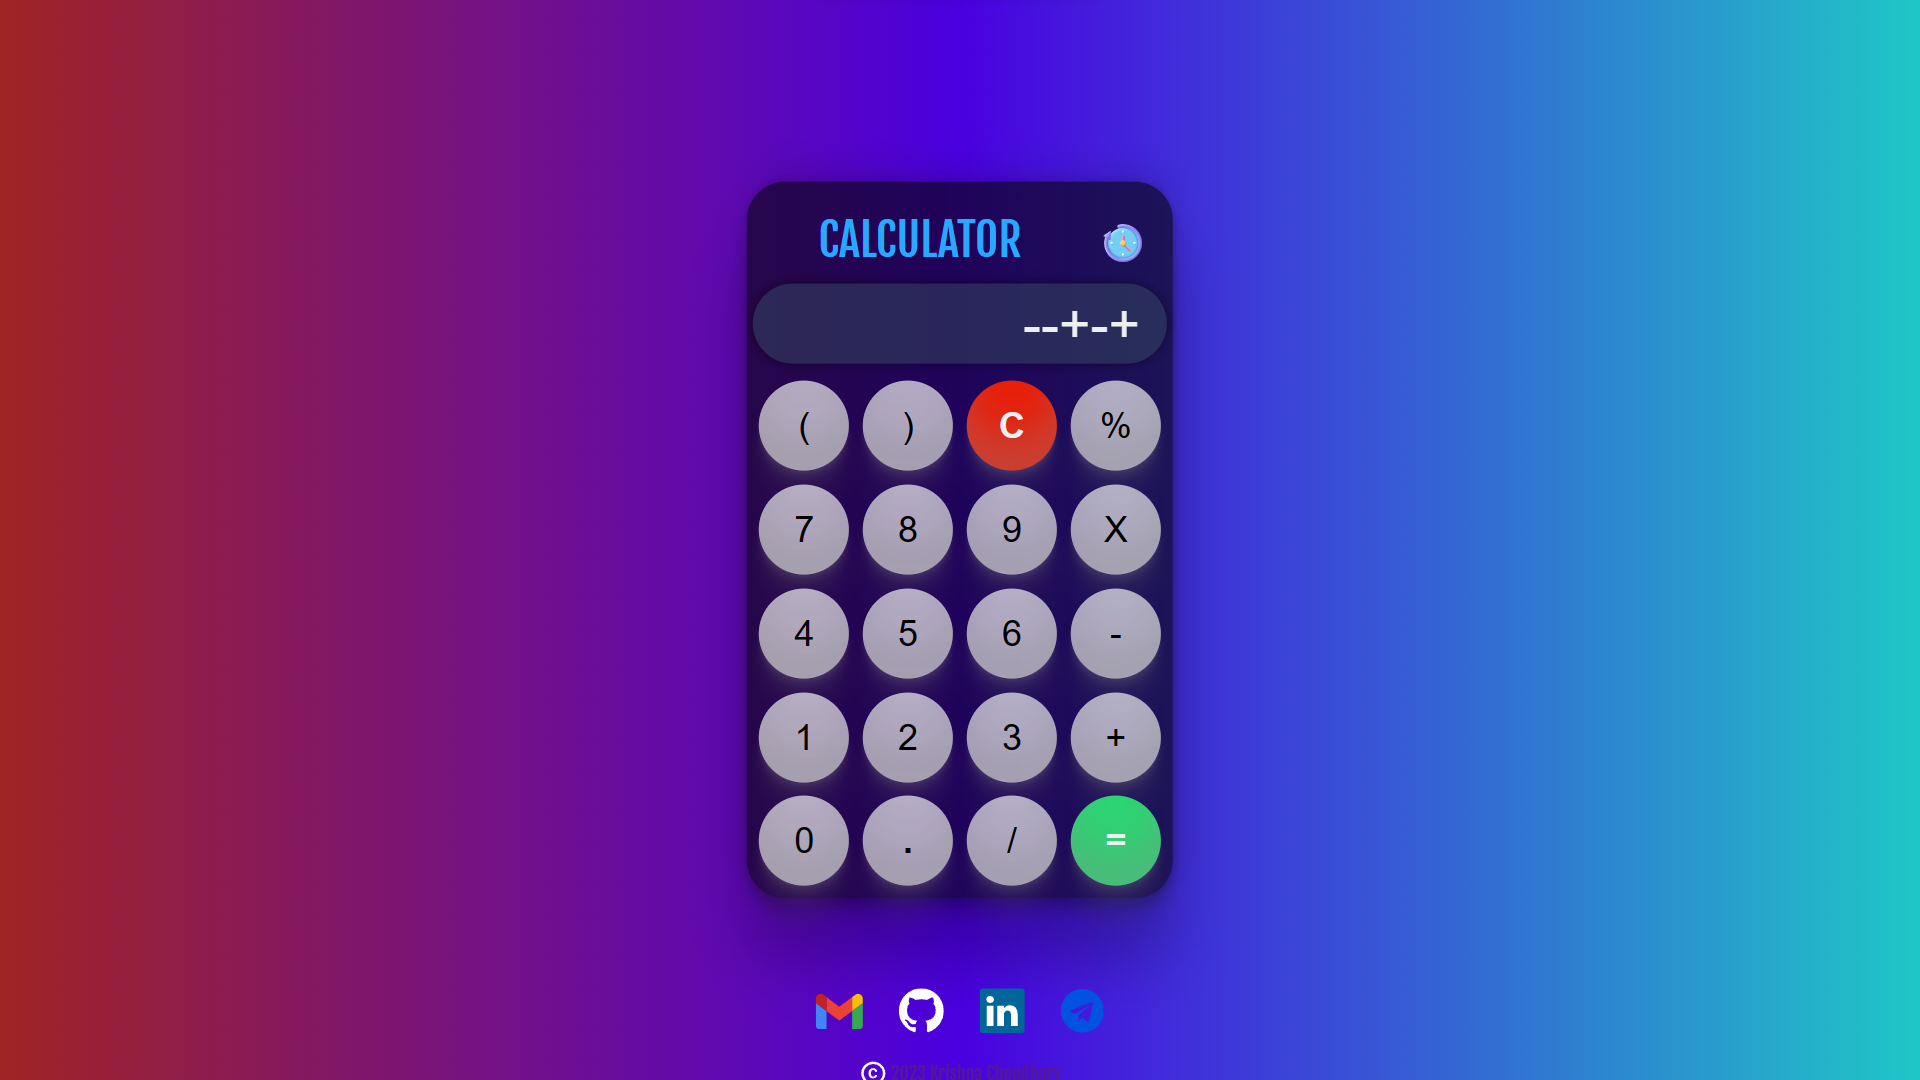
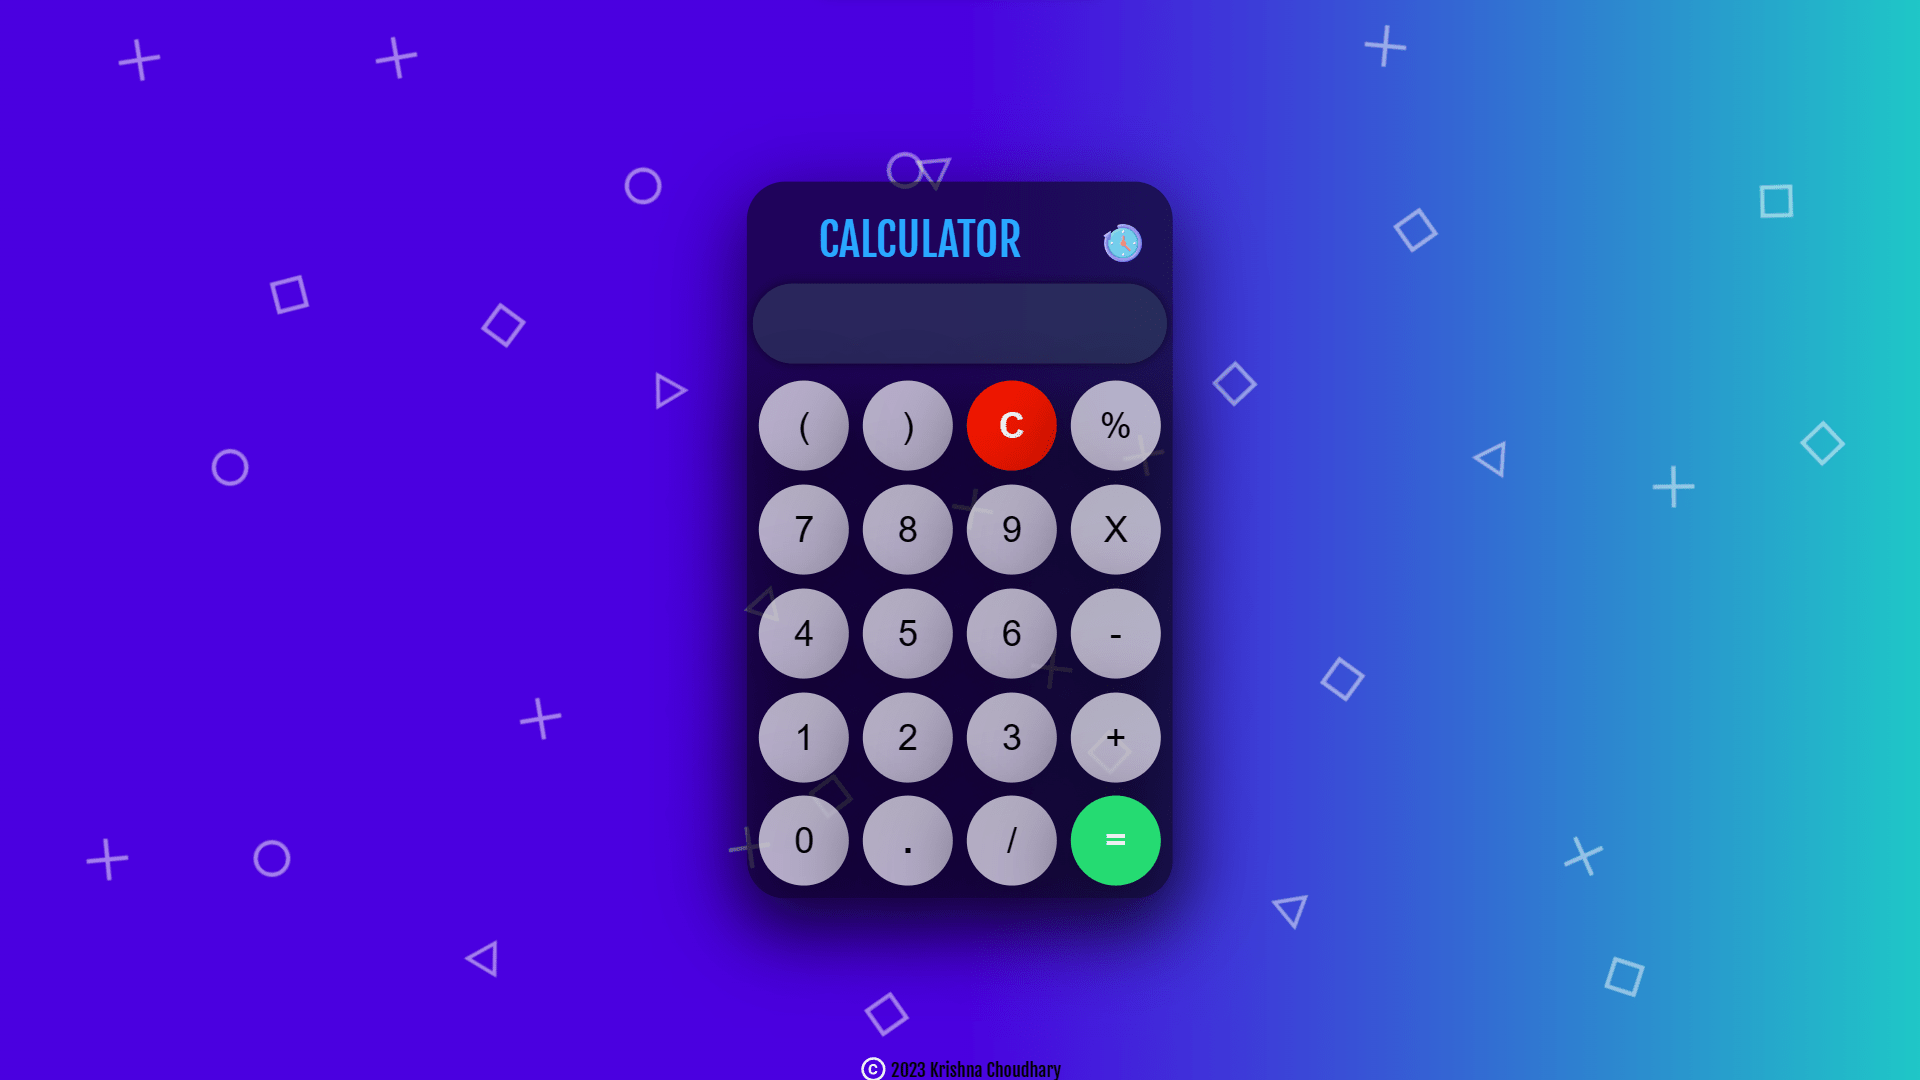
files updated

diff --git a/index.html b/index.html
@@ -7,7 +7,7 @@
 	<meta http-equiv="X-UA-Compatible" content="ie=edge">
 	<title>Calculator</title>
 	<link rel="stylesheet" href="style.css">
-	<link rel="icon" type="image/png" href="images/favicon.png">
+	<link rel="icon" type="png" href="favicon.png">
 	<link href="https://fonts.googleapis.com/css?family=Fjalla+One&display=swap" rel="stylesheet">
 	<!-- Global site tag (gtag.js) - Google Analytics -->
 <script async src="https://www.googletagmanager.com/gtag/js?id=UA-70447982-5"></script>
@@ -21,46 +21,8 @@
 </head>
 
 <body>
-	<div class="backwrap gradient">
-		<div class="back-shapes">
-			<!-- All this img tags was autogenerated by custom written js tool -->
-			<span class="floating circle" style="top:66.59856996935649%;left:13.020833333333334%;animation-delay:-0.9s;"></span>
-			<span class="floating triangle" style="top:31.46067415730337%;left:33.59375%;animation-delay:-4.8s;"></span>
-			<span class="floating cross" style="top:76.50663942798774%;left:38.020833333333336%;animation-delay:-4s;"></span>
-			<span class="floating square" style="top:21.450459652706844%;left:14.0625%;animation-delay:-2.8s;"></span>
-			<span class="floating square" style="top:58.12053115423902%;left:56.770833333333336%;animation-delay:-2.15s;"></span>
-			<span class="floating square" style="top:8.682328907048008%;left:72.70833333333333%;animation-delay:-1.9s;"></span>
-			<span class="floating cross" style="top:31.3585291113381%;left:58.541666666666664%;animation-delay:-0.65s;"></span>
-			<span class="floating cross" style="top:69.96935648621042%;left:81.45833333333333%;animation-delay:-0.4s;"></span>
-			<span class="floating circle" style="top:15.117466802860061%;left:32.34375%;animation-delay:-4.1s;"></span>
-			<span class="floating circle" style="top:13.074565883554648%;left:45.989583333333336%;animation-delay:-3.65s;"></span>
-			<span class="floating cross" style="top:55.87334014300306%;left:27.135416666666668%;animation-delay:-2.25s;"></span>
-			<span class="floating cross" style="top:49.54034729315628%;left:53.75%;animation-delay:-2s;"></span>
-			<span class="floating cross" style="top:34.62717058222676%;left:49.635416666666664%;animation-delay:-1.55s;"></span>
-			<span class="floating cross" style="top:33.19713993871297%;left:86.14583333333333%;animation-delay:-0.95s;"></span>
-			<span class="floating square" style="top:28.19203268641471%;left:25.208333333333332%;animation-delay:-4.45s;"></span>
-			<span class="floating circle" style="top:39.7344228804903%;left:10.833333333333334%;animation-delay:-3.35s;"></span>
-			<span class="floating triangle" style="top:77.83452502553627%;left:24.427083333333332%;animation-delay:-2.3s;"></span>
-			<span class="floating triangle" style="top:2.860061287027579%;left:47.864583333333336%;animation-delay:-1.75s;"></span>
-			<span class="floating triangle" style="top:71.3993871297242%;left:66.45833333333333%;animation-delay:-1.25s;"></span>
-			<span class="floating triangle" style="top:31.256384065372828%;left:76.92708333333333%;animation-delay:-0.65s;"></span>
-			<span class="floating triangle" style="top:46.47599591419816%;left:38.90625%;animation-delay:-0.35s;"></span>
-			<span class="floating cross" style="top:3.4729315628192032%;left:19.635416666666668%;animation-delay:-4.3s;"></span>
-			<span class="floating cross" style="top:3.575076608784474%;left:6.25%;animation-delay:-4.05s;"></span>
-			<span class="floating cross" style="top:77.3237997957099%;left:4.583333333333333%;animation-delay:-3.75s;"></span>
-			<span class="floating cross" style="top:0.9193054136874361%;left:71.14583333333333%;animation-delay:-3.3s;"></span>
-			<span class="floating square" style="top:23.6976506639428%;left:63.28125%;animation-delay:-2.1s;"></span>
-			<span class="floating square" style="top:81.30745658835546%;left:45.15625%;animation-delay:-1.75s;"></span>
-			<span class="floating square" style="top:60.9805924412666%;left:42.239583333333336%;animation-delay:-1.45s;"></span>
-			<span class="floating square" style="top:29.009193054136876%;left:93.90625%;animation-delay:-1.05s;"></span>
-			<span class="floating square" style="top:52.093973442288046%;left:68.90625%;animation-delay:-0.7s;"></span>
-			<span class="floating square" style="top:81.51174668028601%;left:83.59375%;animation-delay:-0.35s;"></span>
-			<span class="floating square" style="top:11.542390194075587%;left:91.51041666666667%;animation-delay:-0.1s;"></span>
-		</div>
-	  </div>
-
       <div class="container">
-		<h1><a style="text-decoration: none; color: #29a8ff; margin-left: 0.25rem;" href="" onclick="location.reload();">CALCULATOR</a><img id="historybutton" src="history.png"></h1 >
+		<h1><a style="text-decoration: none; color: #29a8ff; margin-left: 0.25rem;" href="" onclick="location.reload();">CALCULATOR</a></h1 >
 		<div class="calculator">
 			<input type="text" name="screen" id="answer" readonly>
 			<table>
@@ -109,6 +71,43 @@
     <div id="turn">
     PLEASE TURN YOUR DEVICE
 	</div>
+	<div class="backwrap gradient">
+		<div class="back-shapes">
+			<!-- All this img tags was autogenerated by custom written js tool -->
+			<span class="floating circle" style="top:66.59856996935649%;left:13.020833333333334%;animation-delay:-0.9s;"></span>
+			<span class="floating triangle" style="top:31.46067415730337%;left:33.59375%;animation-delay:-4.8s;"></span>
+			<span class="floating cross" style="top:76.50663942798774%;left:38.020833333333336%;animation-delay:-4s;"></span>
+			<span class="floating square" style="top:21.450459652706844%;left:14.0625%;animation-delay:-2.8s;"></span>
+			<span class="floating square" style="top:58.12053115423902%;left:56.770833333333336%;animation-delay:-2.15s;"></span>
+			<span class="floating square" style="top:8.682328907048008%;left:72.70833333333333%;animation-delay:-1.9s;"></span>
+			<span class="floating cross" style="top:31.3585291113381%;left:58.541666666666664%;animation-delay:-0.65s;"></span>
+			<span class="floating cross" style="top:69.96935648621042%;left:81.45833333333333%;animation-delay:-0.4s;"></span>
+			<span class="floating circle" style="top:15.117466802860061%;left:32.34375%;animation-delay:-4.1s;"></span>
+			<span class="floating circle" style="top:13.074565883554648%;left:45.989583333333336%;animation-delay:-3.65s;"></span>
+			<span class="floating cross" style="top:55.87334014300306%;left:27.135416666666668%;animation-delay:-2.25s;"></span>
+			<span class="floating cross" style="top:49.54034729315628%;left:53.75%;animation-delay:-2s;"></span>
+			<span class="floating cross" style="top:34.62717058222676%;left:49.635416666666664%;animation-delay:-1.55s;"></span>
+			<span class="floating cross" style="top:33.19713993871297%;left:86.14583333333333%;animation-delay:-0.95s;"></span>
+			<span class="floating square" style="top:28.19203268641471%;left:25.208333333333332%;animation-delay:-4.45s;"></span>
+			<span class="floating circle" style="top:39.7344228804903%;left:10.833333333333334%;animation-delay:-3.35s;"></span>
+			<span class="floating triangle" style="top:77.83452502553627%;left:24.427083333333332%;animation-delay:-2.3s;"></span>
+			<span class="floating triangle" style="top:2.860061287027579%;left:47.864583333333336%;animation-delay:-1.75s;"></span>
+			<span class="floating triangle" style="top:71.3993871297242%;left:66.45833333333333%;animation-delay:-1.25s;"></span>
+			<span class="floating triangle" style="top:31.256384065372828%;left:76.92708333333333%;animation-delay:-0.65s;"></span>
+			<span class="floating triangle" style="top:46.47599591419816%;left:38.90625%;animation-delay:-0.35s;"></span>
+			<span class="floating cross" style="top:3.4729315628192032%;left:19.635416666666668%;animation-delay:-4.3s;"></span>
+			<span class="floating cross" style="top:3.575076608784474%;left:6.25%;animation-delay:-4.05s;"></span>
+			<span class="floating cross" style="top:77.3237997957099%;left:4.583333333333333%;animation-delay:-3.75s;"></span>
+			<span class="floating cross" style="top:0.9193054136874361%;left:71.14583333333333%;animation-delay:-3.3s;"></span>
+			<span class="floating square" style="top:23.6976506639428%;left:63.28125%;animation-delay:-2.1s;"></span>
+			<span class="floating square" style="top:81.30745658835546%;left:45.15625%;animation-delay:-1.75s;"></span>
+			<span class="floating square" style="top:60.9805924412666%;left:42.239583333333336%;animation-delay:-1.45s;"></span>
+			<span class="floating square" style="top:29.009193054136876%;left:93.90625%;animation-delay:-1.05s;"></span>
+			<span class="floating square" style="top:52.093973442288046%;left:68.90625%;animation-delay:-0.7s;"></span>
+			<span class="floating square" style="top:81.51174668028601%;left:83.59375%;animation-delay:-0.35s;"></span>
+			<span class="floating square" style="top:11.542390194075587%;left:91.51041666666667%;animation-delay:-0.1s;"></span>
+		</div>
+	  </div>
 
 </body>
 <script src="hist.js"></script>

diff --git a/style.css b/style.css
@@ -220,33 +220,6 @@ a:hover{
     position: fixed;
 }
 
-#historybutton{
-    width:60px;
-    height:60px;
-    border-radius: 20px;
-    float:right; 
-    margin-right:15px;
-    cursor: pointer;
-}
-
-#history{
-    position: absolute;
-    width:90%;
-    height: 80vh;
-    top:10vh;
-    background-color: white;
-    border: 2px solid black;
-    border-radius: 10px;
-    display: none;
-    /* overflow-y: scroll; */
-}
-
-.historyelement{
-    color: black;
-    margin: 20px;
-    font-size: 40px;
-}
-
 #bar1, #bar2{
     position: absolute;
     width:30px;
